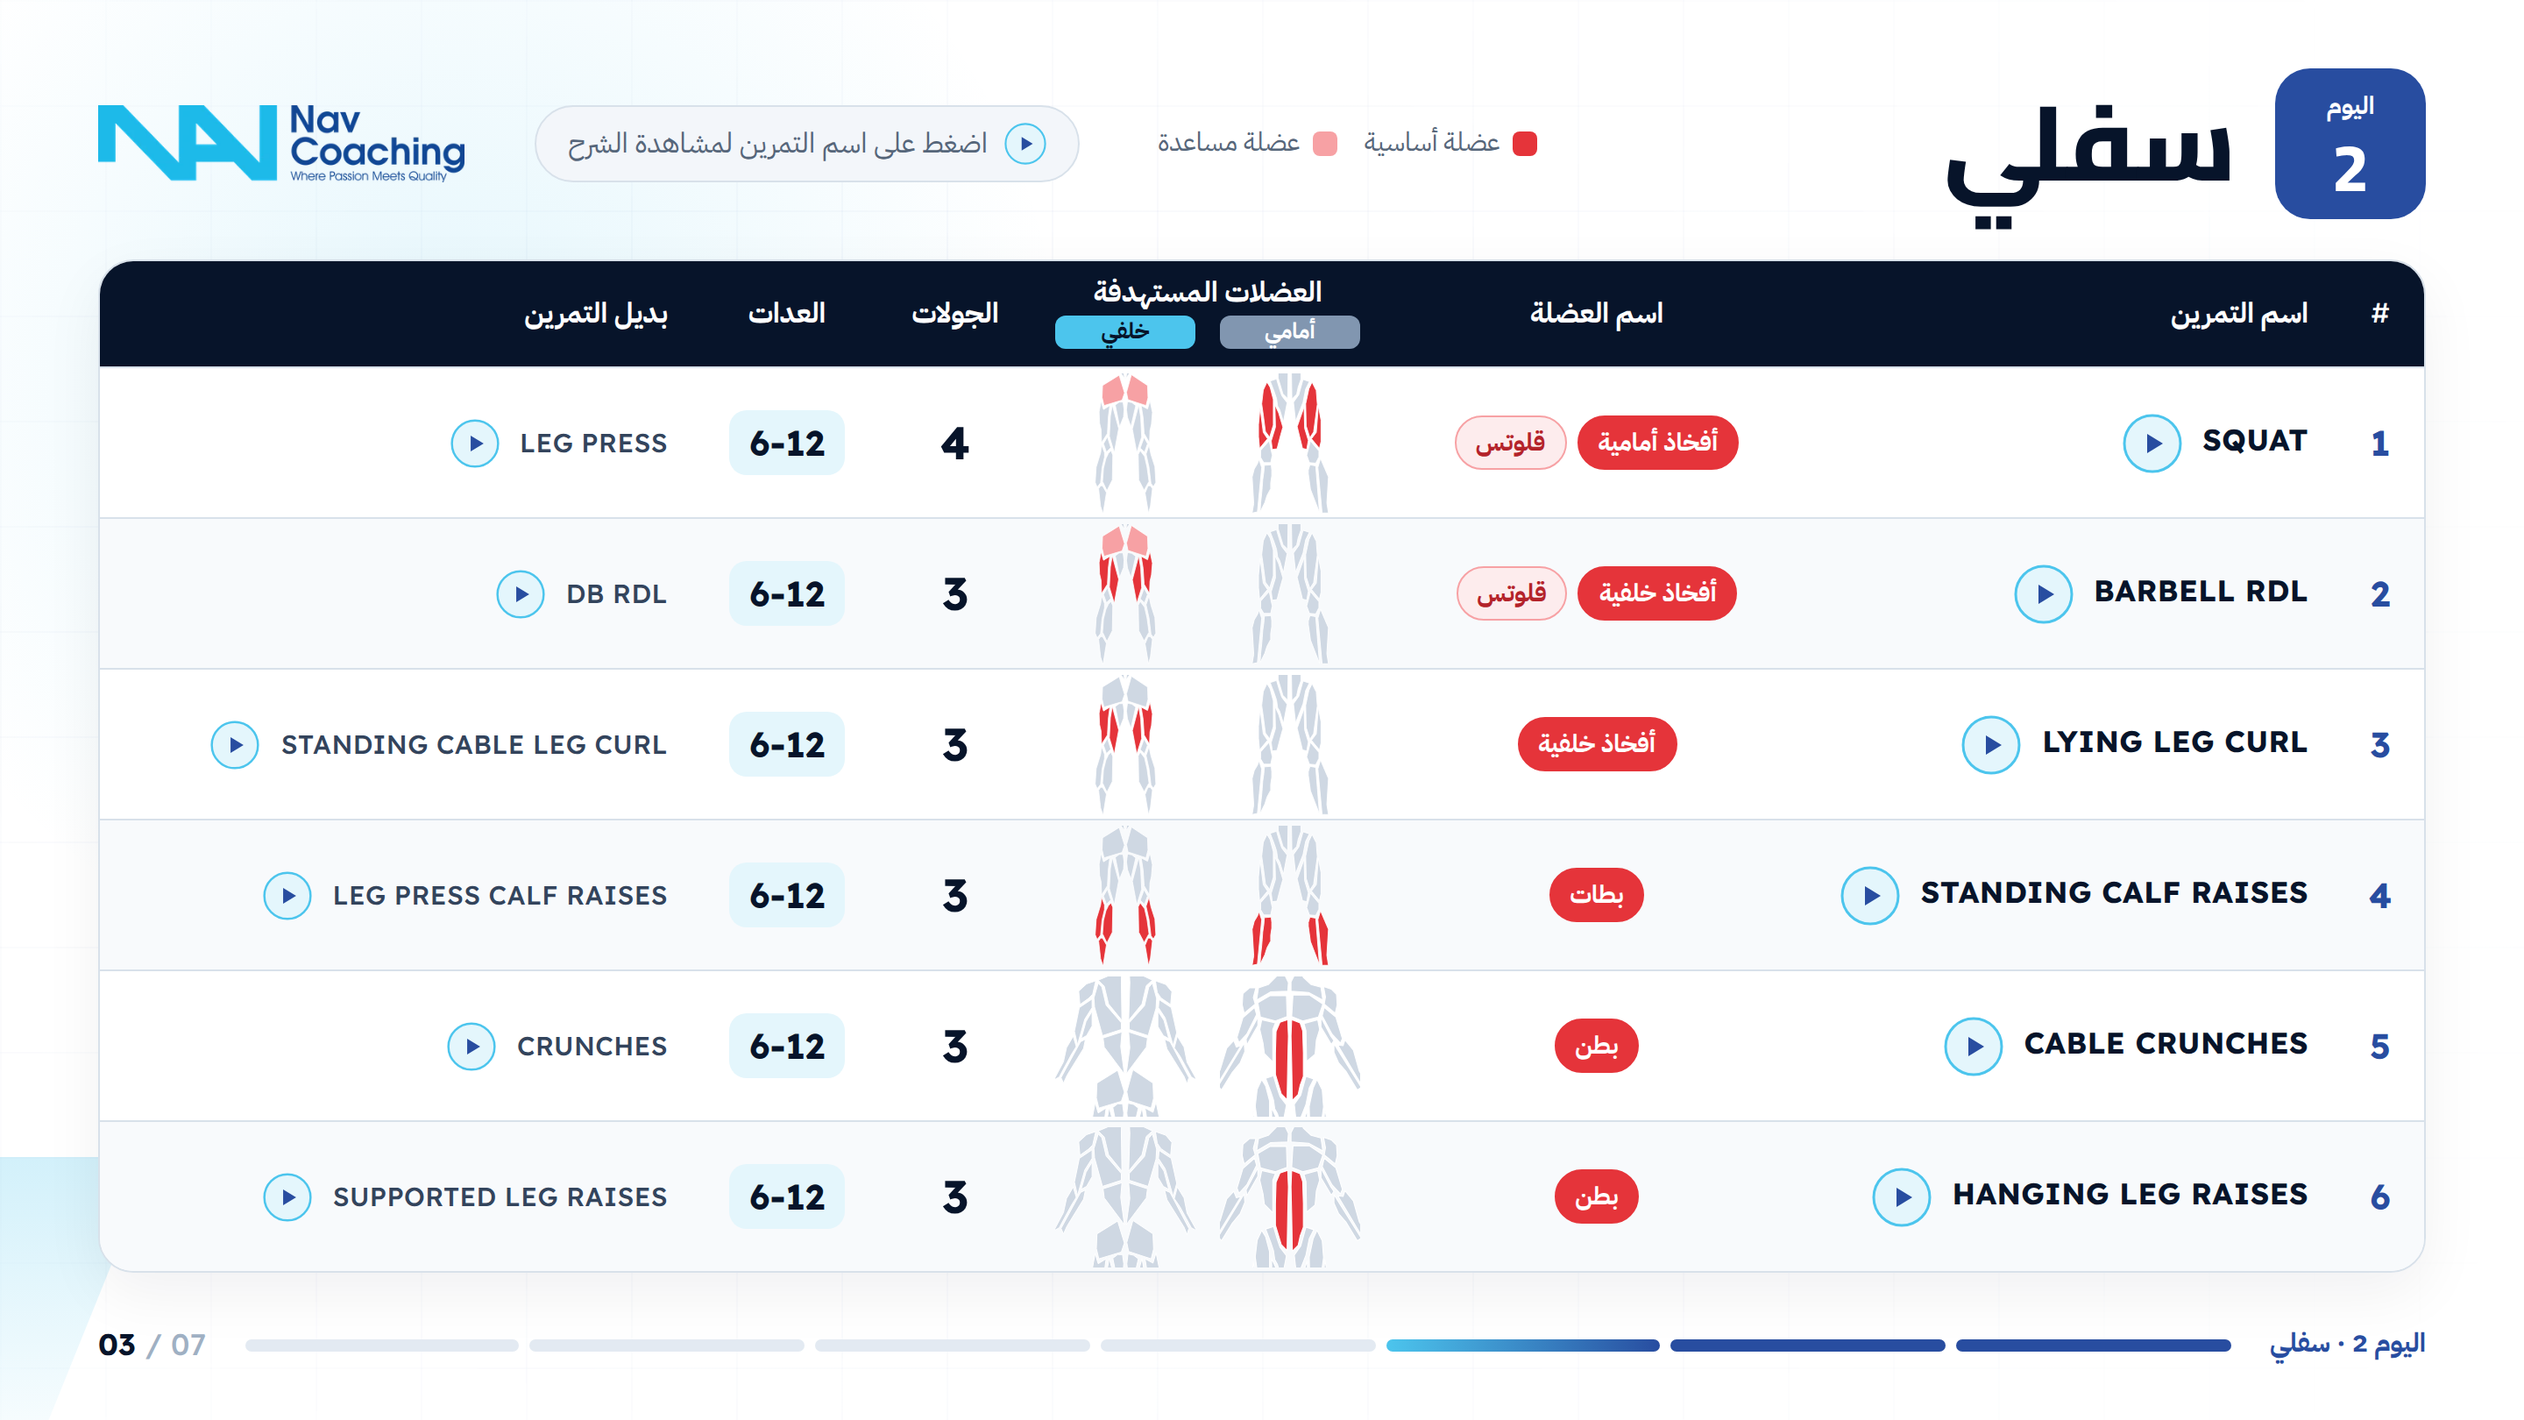
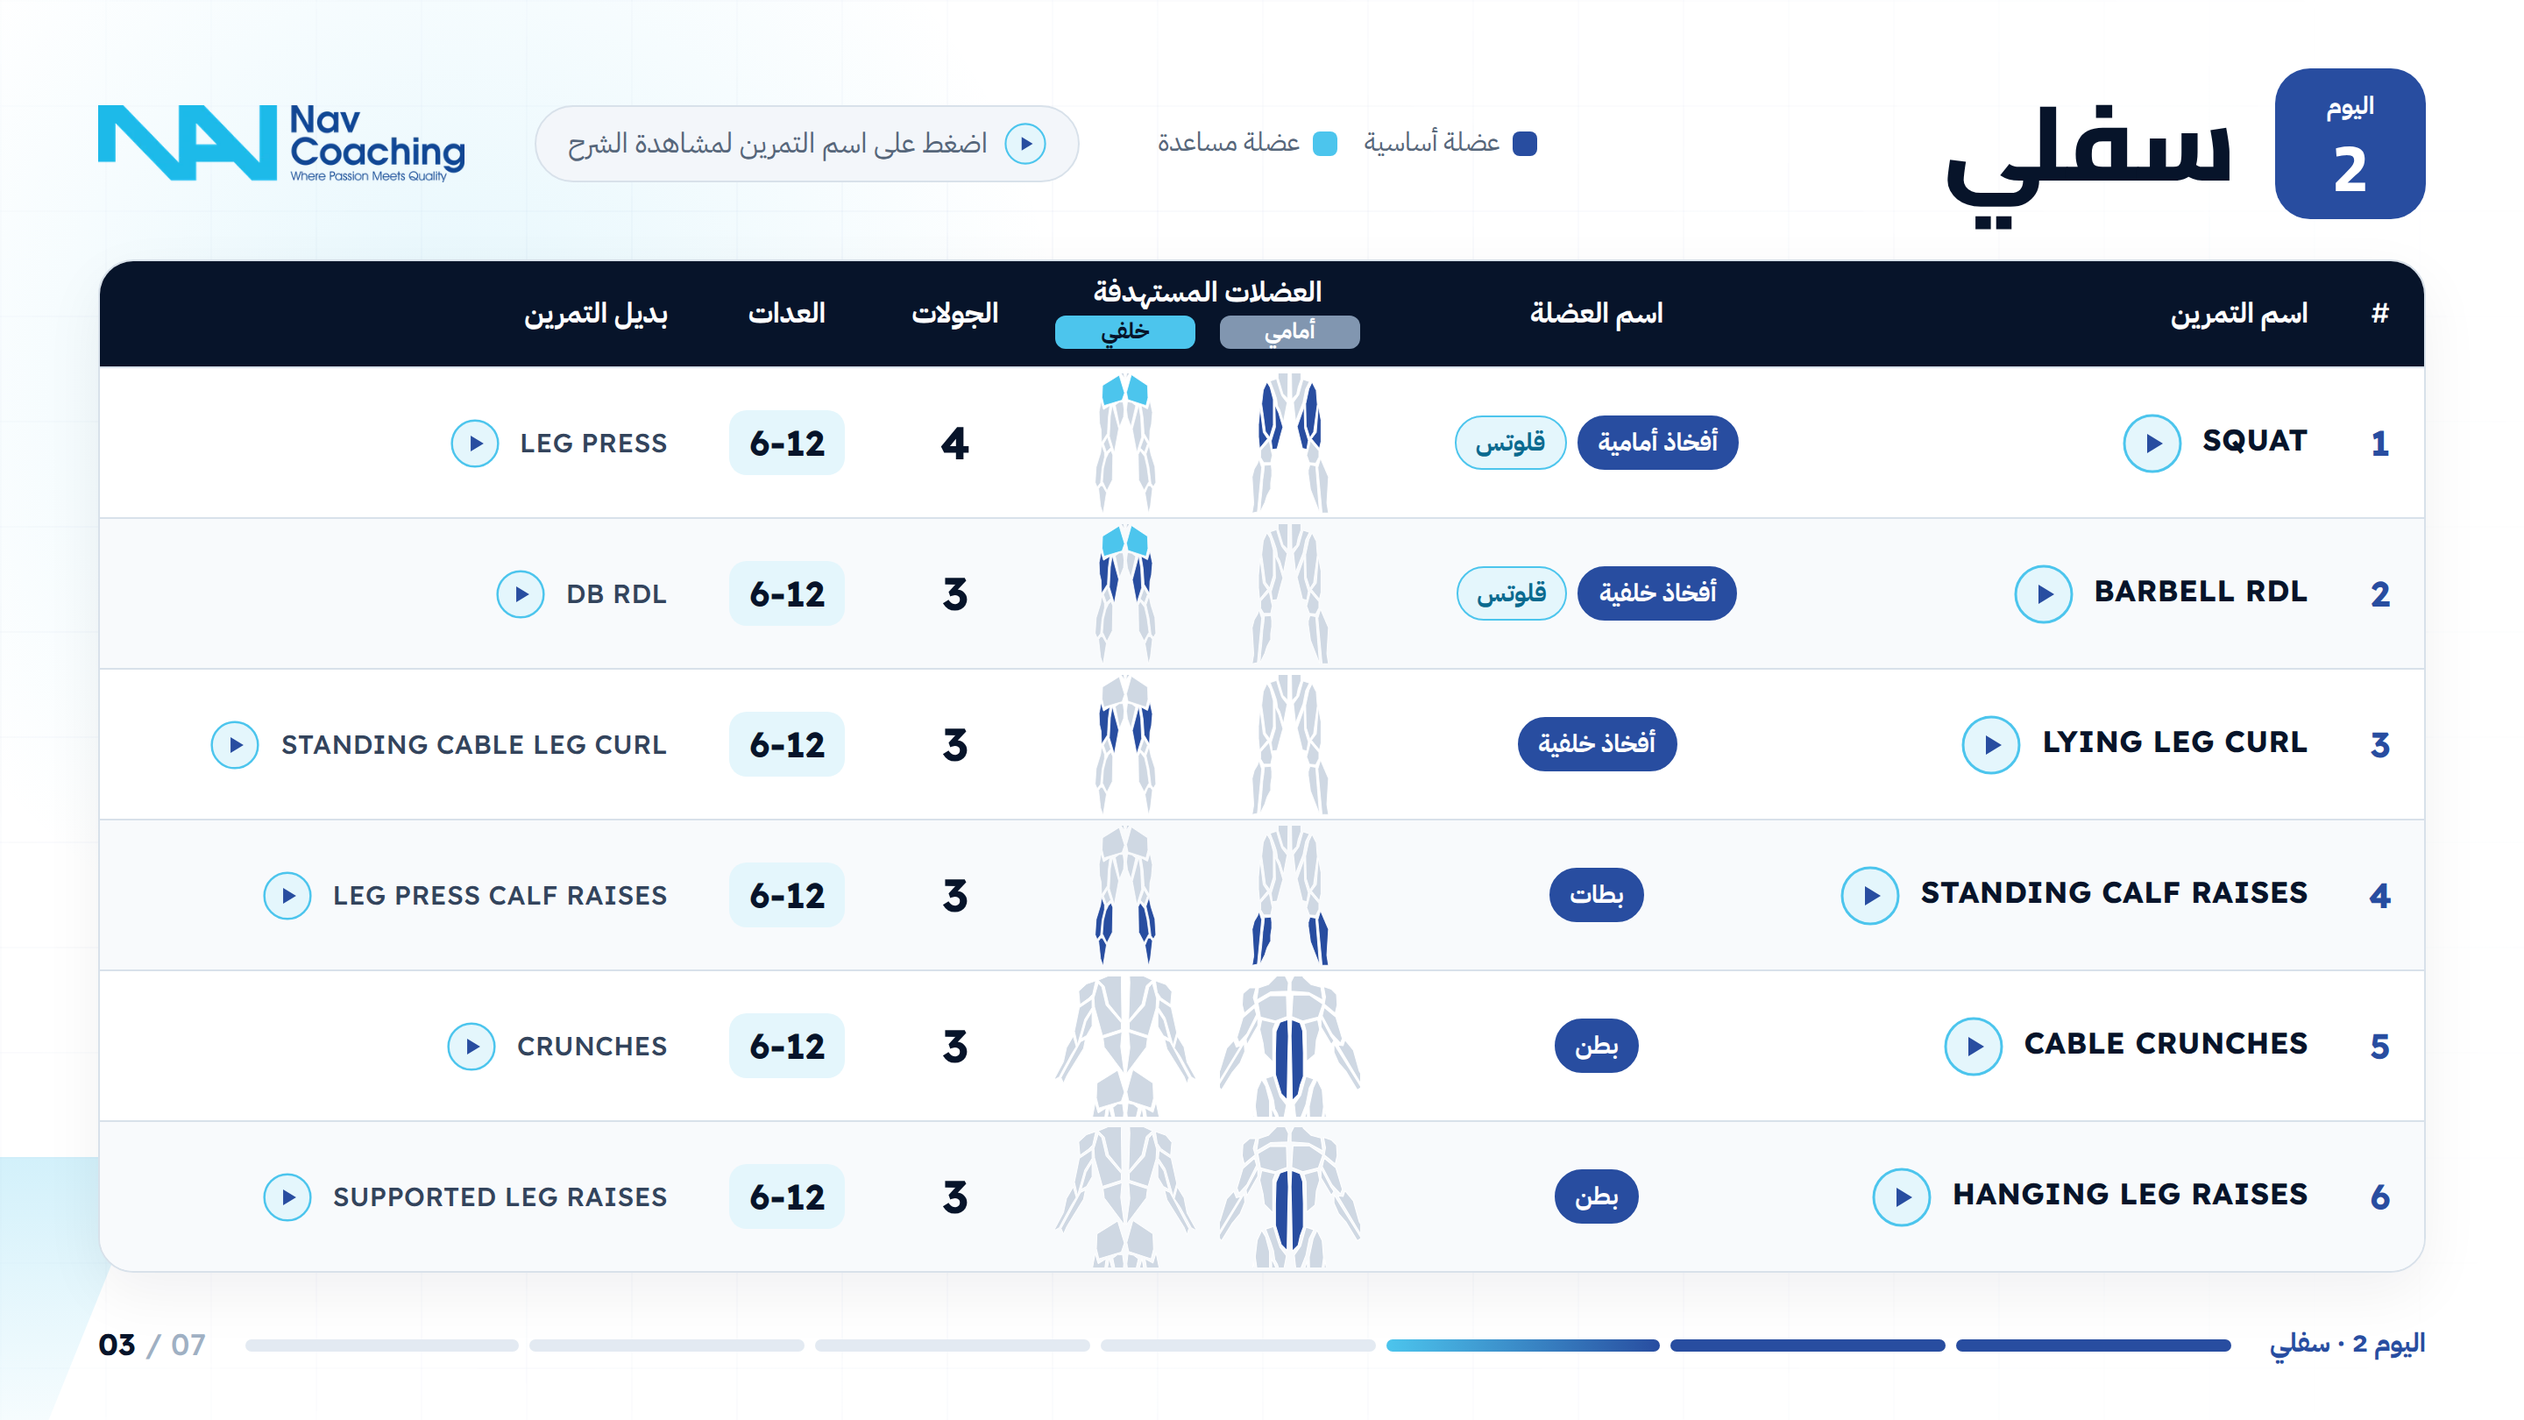
Program PDF: restore navy/cyan muscle colors; day-3 (full body) page
Claude-Session: https://claude.ai/code/session_018Z9fQ6WXKqVkgdznS9iWHe

diff --git a/pdf/program.html b/pdf/program.html
@@ -78,9 +78,9 @@ a{color:inherit;text-decoration:none}
 .alt .lnk b{font-weight:500;color:#33445c;font-size:15px}
 .alt .lnk .pl{width:28px;height:28px}
 .tags{display:flex;flex-wrap:wrap;gap:6px;justify-content:center;padding:0 10px}
-.tag{font:700 14px "IBM Plex Sans Arabic";padding:4px 11px;border-radius:99px;background:#fdeced;border:1.5px solid #f7a1a4;color:#b4232a;white-space:nowrap}
-.tag.p{background:#e5343a;border-color:#e5343a;color:#fff}
-.lg{display:flex;gap:16px;font:500 15px "IBM Plex Sans Arabic";color:var(--muted)}.lg span{display:flex;align-items:center;gap:7px}.lg i{width:14px;height:14px;border-radius:4px;background:#e5343a}.lg i.s{background:#f7a1a4}
+.tag{font:700 14px "IBM Plex Sans Arabic";padding:4px 11px;border-radius:99px;background:var(--cyan-soft);border:1.5px solid var(--cyan);color:var(--cyan-ink);white-space:nowrap}
+.tag.p{background:var(--navy);border-color:var(--navy);color:#fff}
+.lg{display:flex;gap:16px;font:500 15px "IBM Plex Sans Arabic";color:var(--muted)}.lg span{display:flex;align-items:center;gap:7px}.lg i{width:14px;height:14px;border-radius:4px;background:var(--navy)}.lg i.s{background:var(--cyan)}
 .fig{gap:14px}.fig .v{display:flex;flex-direction:column;align-items:center}.fig svg{height:80px;width:80px}.fig .v span{font:700 11.5px "IBM Plex Sans Arabic";color:#fff;background:#8196b0;border-radius:6px;padding:0 7px;line-height:17px}.fig .v.b span{background:var(--ink3)}
 .num{font:800 26px "Readex Pro";color:var(--ink)}
 .rep{font:700 20px "Readex Pro";color:var(--ink);direction:ltr;background:var(--cyan-soft);border-radius:10px;padding:6px 12px}
@@ -117,7 +117,7 @@ const PLAY='<svg class="pl" viewBox="0 0 34 34"><circle cx="17" cy="17" r="16" f
 const YT=id=>id.includes('/')?id:('https://www.youtube.com/'+(id.length&&id[0]==='w'?'watch?v='+id.slice(2):'shorts/'+id));
 // ---- body diagram (anatomy polygons: react-body-highlighter, MIT, (c) 2020 GV79)
 const ANAT={"anteriorData":[["CHEST",["51.8367347 41.6326531 51.0204082 55.1020408 57.9591837 57.9591837 67.755102 55.5102041 70.6122449 47.3469388 62.0408163 41.6326531","29.7959184 46.5306122 31.4285714 55.5102041 40.8163265 57.9591837 48.1632653 55.1020408 47.755102 42.0408163 37.5510204 42.0408163"]],["OBLIQUES",["68.5714286 63.2653061 67.3469388 57.1428571 58.7755102 59.5918367 60 64.0816327 60.4081633 83.2653061 65.7142857 78.7755102 66.5306122 69.7959184","33.877551 78.3673469 33.0612245 71.8367347 31.0204082 63.2653061 32.244898 57.1428571 40.8163265 59.1836735 39.1836735 63.2653061 39.1836735 83.6734694"]],["ABS",["56.3265306 59.1836735 57.9591837 64.0816327 58.3673469 77.9591837 58.3673469 92.6530612 56.3265306 98.3673469 55.1020408 104.081633 51.4285714 107.755102 51.0204082 84.4897959 50.6122449 67.3469388 51.0204082 57.1428571","43.6734694 58.7755102 48.5714286 57.1428571 48.9795918 67.3469388 48.5714286 84.4897959 48.1632653 107.346939 44.4897959 103.673469 40.8163265 91.4285714 40.8163265 78.3673469 41.2244898 64.4897959"]],["BICEPS",["16.7346939 68.1632653 17.9591837 71.4285714 22.8571429 66.122449 28.9795918 53.877551 27.755102 49.3877551 20.4081633 55.9183673","71.4285714 49.3877551 70.2040816 54.6938776 76.3265306 66.122449 81.6326531 71.8367347 82.8571429 68.9795918 78.7755102 55.5102041"]],["TRICEPS",["69.3877551 55.5102041 69.3877551 61.6326531 75.9183673 72.6530612 77.5510204 70.2040816 75.5102041 67.3469388","22.4489796 69.3877551 29.7959184 55.5102041 29.7959184 60.8163265 22.8571429 73.0612245"]],["NECK",["55.5102041 23.6734694 50.6122449 33.4693878 50.6122449 39.1836735 61.6326531 40 70.6122449 44.8979592 69.3877551 36.7346939 63.2653061 35.1020408 58.3673469 30.6122449","28.9795918 44.8979592 30.2040816 37.1428571 36.3265306 35.1020408 41.2244898 30.2040816 44.4897959 24.4897959 48.9795918 33.877551 48.5714286 39.1836735 37.9591837 39.5918367"]],["FRONT_DELTOIDS",["78.3673469 53.0612245 79.5918367 47.755102 79.1836735 41.2244898 75.9183673 37.9591837 71.0204082 36.3265306 72.244898 42.8571429 71.4285714 47.3469388","28.1632653 47.3469388 21.2244898 53.0612245 20 47.755102 20.4081633 40.8163265 24.4897959 37.1428571 28.5714286 37.1428571 26.9387755 43.2653061"]],["HEAD",["42.4489796 2.85714286 40 11.8367347 42.0408163 19.5918367 46.122449 23.2653061 49.7959184 25.3061224 54.6938776 22.4489796 57.5510204 19.1836735 59.1836735 10.2040816 57.1428571 2.44897959 49.7959184 0"]],["ABDUCTORS",["52.6530612 110.204082 54.2857143 124.897959 60 110.204082 62.0408163 100 64.8979592 94.2857143 60 92.6530612 56.7346939 104.489796","47.755102 110.612245 44.8979592 125.306122 42.0408163 115.918367 40.4081633 113.061224 39.5918367 107.346939 37.9591837 102.44898 34.6938776 93.877551 39.5918367 92.244898 41.6326531 99.1836735 43.6734694 105.306122"]],["QUADRICEPS",["34.6938776 98.7755102 37.1428571 108.163265 37.1428571 127.755102 34.2857143 137.142857 31.0204082 132.653061 29.3877551 120 28.1632653 111.428571 29.3877551 100.816327 32.244898 94.6938776","63.2653061 105.714286 64.4897959 100 66.9387755 94.6938776 70.2040816 101.22449 71.0204082 111.836735 68.1632653 133.061224 65.3061224 137.55102 62.4489796 128.571429 62.0408163 111.428571","38.7755102 129.387755 38.3673469 112.244898 41.2244898 118.367347 44.4897959 129.387755 42.8571429 135.102041 40 146.122449 36.3265306 146.530612 35.5102041 140","59.5918367 145.714286 55.5102041 128.979592 60.8163265 113.877551 61.2244898 130.204082 64.0816327 139.591837 62.8571429 146.530612","32.6530612 138.367347 26.5306122 145.714286 25.7142857 136.734694 25.7142857 127.346939 26.9387755 114.285714 29.3877551 133.469388","71.8367347 113.061224 73.877551 124.081633 73.877551 140.408163 72.6530612 145.714286 66.5306122 138.367347 70.2040816 133.469388"]],["KNEES",["33.877551 140 34.6938776 143.265306 35.5102041 147.346939 36.3265306 151.020408 35.1020408 156.734694 29.7959184 156.734694 27.3469388 152.653061 27.3469388 147.346939 30.2040816 144.081633","65.7142857 140 72.244898 147.755102 72.244898 152.244898 69.7959184 157.142857 64.8979592 156.734694 62.8571429 151.020408"]],["CALVES",["71.4285714 160.408163 73.4693878 153.469388 76.7346939 161.22449 79.5918367 167.755102 78.3673469 187.755102 79.5918367 195.510204 74.6938776 195.510204","24.8979592 194.693878 27.755102 164.897959 28.1632653 160.408163 26.122449 154.285714 24.8979592 157.55102 22.4489796 161.632653 20.8163265 167.755102 22.0408163 188.163265 20.8163265 195.510204","72.6530612 195.102041 69.7959184 159.183673 65.3061224 158.367347 64.0816327 162.44898 64.0816327 165.306122 65.7142857 177.142857","35.5102041 158.367347 35.9183673 162.44898 35.9183673 166.938776 35.1020408 172.244898 35.1020408 176.734694 32.244898 182.040816 30.6122449 187.346939 26.9387755 194.693878 27.3469388 187.755102 28.1632653 180.408163 28.5714286 175.510204 28.9795918 169.795918 29.7959184 164.081633 30.2040816 158.77551"]],["FOREARM",["6.12244898 88.5714286 10.2040816 75.1020408 14.6938776 70.2040816 16.3265306 74.2857143 19.1836735 73.4693878 4.48979592 97.5510204 0 100","84.4897959 69.7959184 83.2653061 73.4693878 80 73.0612245 95.1020408 98.3673469 100 100.408163 93.4693878 89.3877551 89.7959184 76.3265306","77.5510204 72.244898 77.5510204 77.5510204 80.4081633 84.0816327 85.3061224 89.7959184 92.244898 101.22449 94.6938776 99.5918367","6.93877551 101.22449 13.4693878 90.6122449 18.7755102 84.0816327 21.6326531 77.1428571 21.2244898 71.8367347 4.89795918 98.7755102"]]],"posteriorData":[["HEAD",["50.6382979 0 45.9574468 0.85106383 40.8510638 5.53191489 40.4255319 12.7659574 45.106383 20 55.7446809 20 59.1489362 13.6170213 59.5744681 4.68085106 55.7446809 1.27659574"]],["TRAPEZIUS",["44.6808511 21.7021277 47.6595745 21.7021277 47.2340426 38.2978723 47.6595745 64.6808511 38.2978723 53.1914894 35.3191489 40.8510638 31.0638298 36.5957447 39.1489362 33.1914894 43.8297872 27.2340426","52.3404255 21.7021277 55.7446809 21.7021277 56.5957447 27.2340426 60.8510638 32.7659574 68.9361702 36.5957447 64.6808511 40.4255319 61.7021277 53.1914894 52.3404255 64.6808511 53.1914894 38.2978723"]],["BACK_DELTOIDS",["29.3617021 37.0212766 22.9787234 39.1489362 17.4468085 44.2553191 18.2978723 53.6170213 24.2553191 49.3617021 27.2340426 46.3829787","71.0638298 37.0212766 78.2978723 39.5744681 82.5531915 44.6808511 81.7021277 53.6170213 74.893617 48.9361702 72.3404255 45.106383"]],["UPPER_BACK",["31.0638298 38.7234043 28.0851064 48.9361702 28.5106383 55.3191489 34.0425532 75.3191489 47.2340426 71.0638298 47.2340426 66.3829787 36.5957447 54.0425532 33.6170213 41.2765957","68.9361702 38.7234043 71.9148936 49.3617021 71.4893617 56.1702128 65.9574468 75.3191489 52.7659574 71.0638298 52.7659574 66.3829787 63.4042553 54.4680851 66.3829787 41.7021277"]],["TRICEPS",["26.8085106 49.787234 17.8723404 55.7446809 14.4680851 72.3404255 16.5957447 81.7021277 21.7021277 63.8297872 26.8085106 55.7446809","73.6170213 50.212766 82.1276596 55.7446809 85.9574468 73.1914894 83.4042553 82.1276596 77.8723404 62.9787234 73.1914894 55.7446809","26.8085106 58.2978723 26.8085106 68.5106383 22.9787234 75.3191489 19.1489362 77.4468085 22.5531915 65.5319149","72.7659574 58.2978723 77.0212766 64.6808511 80.4255319 77.4468085 76.5957447 75.3191489 72.7659574 68.9361702"]],["LOWER_BACK",["47.6595745 72.7659574 34.4680851 77.0212766 35.3191489 83.4042553 49.3617021 102.12766 46.8085106 82.9787234","52.3404255 72.7659574 65.5319149 77.0212766 64.6808511 83.4042553 50.6382979 102.12766 53.1914894 83.8297872"]],["FOREARM",["86.3829787 75.7446809 91.0638298 83.4042553 93.1914894 94.0425532 100 106.382979 96.1702128 104.255319 88.0851064 89.3617021 84.2553191 83.8297872","13.6170213 75.7446809 8.93617021 83.8297872 6.80851064 93.6170213 0 106.382979 3.82978723 104.255319 12.3404255 88.5106383 15.7446809 82.9787234","81.2765957 79.5744681 77.4468085 77.8723404 79.1489362 84.6808511 91.0638298 103.829787 93.1914894 108.93617 94.4680851 104.680851","18.7234043 79.5744681 22.1276596 77.8723404 20.8510638 84.2553191 9.36170213 102.978723 6.80851064 108.510638 5.10638298 104.680851"]],["GLUTEAL",["44.6808511 99.5744681 30.212766 108.510638 29.787234 118.723404 31.4893617 125.957447 47.2340426 121.276596 49.3617021 114.893617","55.3191489 99.1489362 51.0638298 114.468085 52.3404255 120.851064 68.0851064 125.957447 69.787234 119.148936 69.3617021 108.510638"]],["ABDUCTOR",["48.0851064 122.978723 44.6808511 122.978723 41.2765957 125.531915 45.106383 144.255319 48.5106383 135.744681 48.9361702 129.361702","51.9148936 122.553191 55.7446809 123.404255 59.1489362 125.957447 54.893617 144.255319 51.9148936 136.170213 51.0638298 129.361702"]],["HAMSTRING",["28.9361702 122.12766 31.0638298 129.361702 36.5957447 125.957447 35.3191489 135.319149 34.4680851 150.212766 29.3617021 158.297872 28.9361702 146.808511 27.6595745 141.276596 27.2340426 131.489362","71.4893617 121.702128 69.3617021 128.93617 63.8297872 125.957447 65.5319149 136.595745 66.3829787 150.212766 71.0638298 158.297872 71.4893617 147.659574 72.7659574 142.12766 73.6170213 131.914894","38.7234043 125.531915 44.2553191 145.957447 40.4255319 166.808511 36.1702128 152.765957 37.0212766 135.319149","61.7021277 125.531915 63.4042553 136.170213 64.2553191 153.191489 60 166.808511 56.1702128 146.382979"]],["KNEES",["34.4680851 153.191489 31.0638298 159.148936 33.6170213 166.382979 37.4468085 162.553191","66.3829787 153.617021 62.9787234 162.978723 66.8085106 166.382979 69.3617021 159.148936"]],["CALVES",["29.3617021 160.425532 28.5106383 167.234043 24.6808511 179.574468 23.8297872 192.765957 25.5319149 197.021277 28.5106383 193.191489 29.787234 180 31.9148936 171.06383 31.9148936 166.808511","37.4468085 165.106383 35.3191489 167.659574 33.1914894 171.914894 31.0638298 180.425532 30.212766 191.914894 34.0425532 200 38.7234043 190.638298 39.1489362 168.93617","62.9787234 165.106383 61.2765957 168.510638 61.7021277 190.638298 66.3829787 199.574468 70.6382979 191.914894 68.9361702 179.574468 66.8085106 170.212766","70.6382979 160.425532 72.3404255 168.510638 75.7446809 179.148936 76.5957447 192.765957 74.4680851 196.595745 72.3404255 193.617021 70.6382979 179.574468 68.0851064 168.085106"]],["LEFT_SOLEUS",["28.5106383 195.744681 30.212766 195.744681 33.6170213 201.702128 30.6382979 220 28.5106383 213.617021 26.8085106 198.297872"]],["RIGHT_SOLEUS",["69.787234 195.744681 71.9148936 195.744681 73.6170213 198.297872 71.9148936 213.191489 70.212766 219.574468 67.2340426 202.12766"]]]};
-const RED='#e5343a',RED2='#f7a1a4',BODY='#cfd8e3';
+const RED='#284da0',RED2='#4cc5ed',BODY='#cfd8e3';
 const MAP={chest:['CHEST'],fdelt:['FRONT_DELTOIDS'],sdelt:['FRONT_DELTOIDS','BACK_DELTOIDS'],rdelt:['BACK_DELTOIDS'],biceps:['BICEPS'],triceps:['TRICEPS'],
  lats:['UPPER_BACK'],rhomb:['TRAPEZIUS'],abs:['ABS'],quads:['QUADRICEPS'],glutes:['GLUTEAL'],hams:['HAMSTRING'],calves:['CALVES','LEFT_SOLEUS','RIGHT_SOLEUS']};
 function body(view,pri,sec){
